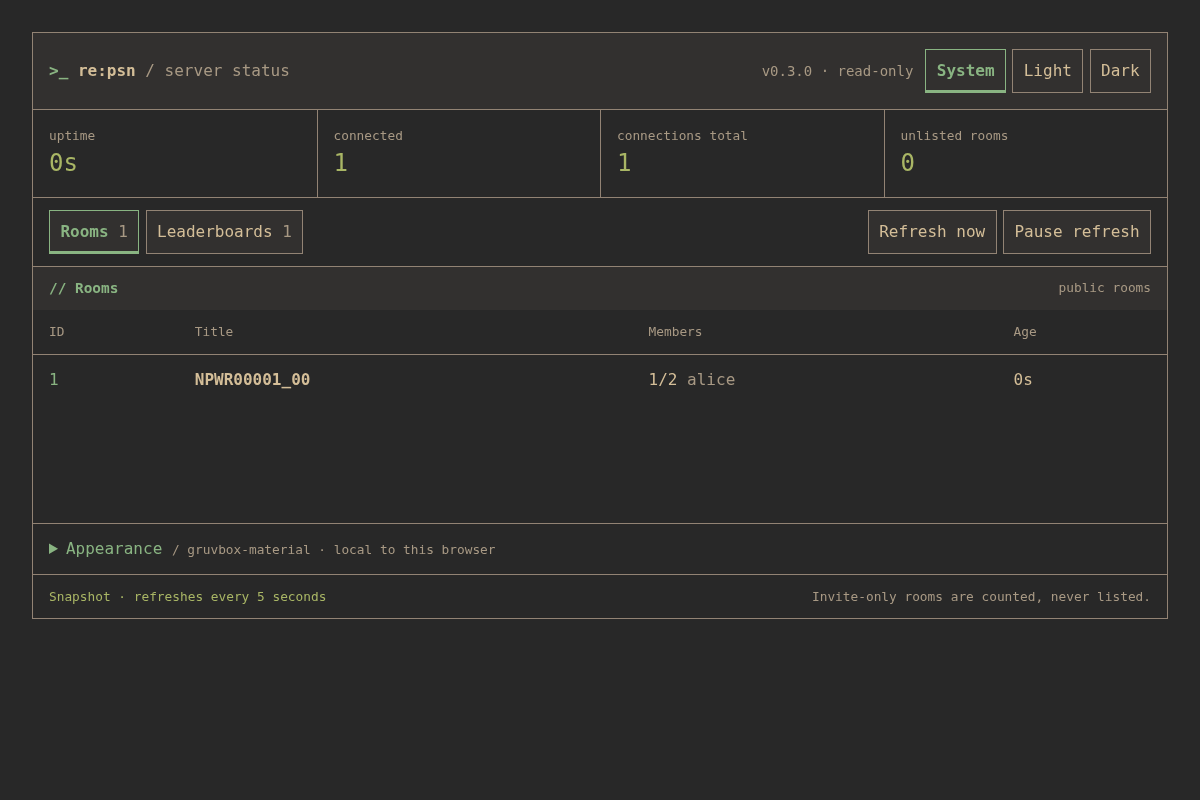
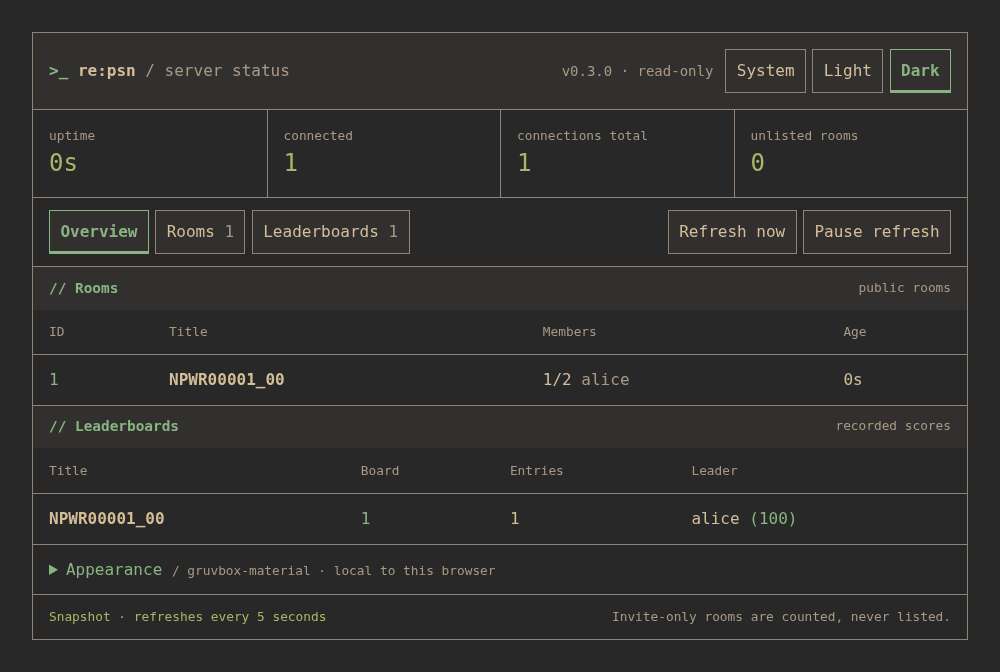
Docs: capture both status tables in the README
Add an Overview view and share the real-page screenshot framing between capture tools. Keep the original image width and show both tables without cropping.

diff --git a/server/status.js b/server/status.js
@@ -107,7 +107,8 @@
     apply(); message('Appearance reset to gruvbox-material.'); save();
   });
 
-  const tabs = [byID('rooms-tab'), byID('boards-tab')];
+  const tabs = [byID('overview-tab'), byID('rooms-tab'), byID('boards-tab')];
+  const sections = [byID('rooms-panel'), byID('boards-panel')];
   function selectTab(tab) {
     for (const item of tabs) {
       const selected = item === tab;
@@ -115,8 +116,12 @@
       item.tabIndex = selected ? 0 : -1;
       const panel = byID(item.getAttribute('aria-controls'));
       panel.hidden = !selected;
-      panel.setAttribute('role', 'tabpanel');
-      panel.setAttribute('aria-labelledby', item.id);
+    }
+    const overview = tab.id === 'overview-tab';
+    for (const section of sections) {
+      const selected = overview || section.id === (tab.id === 'rooms-tab' ? 'rooms-panel' : 'boards-panel');
+      section.hidden = !selected;
+      byID(selected ? tab.getAttribute('aria-controls') : 'overview-view').append(section);
     }
   }
   tabs.forEach((tab, index) => {
@@ -124,7 +129,8 @@
     tab.addEventListener('keydown', event => {
       if (!['ArrowLeft', 'ArrowRight', 'Home', 'End'].includes(event.key) || event.altKey || event.ctrlKey || event.metaKey) return;
       event.preventDefault();
-      const next = event.key === 'Home' ? tabs[0] : event.key === 'End' ? tabs[1] : tabs[1 - index];
+      const next = event.key === 'Home' ? tabs[0] : event.key === 'End' ? tabs[tabs.length - 1]
+        : tabs[(index + (event.key === 'ArrowLeft' ? tabs.length - 1 : 1)) % tabs.length];
       selectTab(next); next.focus();
     });
   });
@@ -180,7 +186,7 @@
     if (!state.hasAttribute('data-error')) state.textContent = paused ? 'Automatic refresh paused · snapshot retained' : 'Automatic refresh · every 5 seconds';
     if (!paused) refresh();
   });
-  apply(); selectTab(tabs[0]);
+  apply(); selectTab(byID('rooms-tab'));
   for (const id of ['theme-controls', 'toolbar', 'appearance']) byID(id).hidden = false;
   byID('fallback-refresh').remove();
   setInterval(() => { if (!paused && !document.hidden) refresh(); }, 5000);

diff --git a/server/status.html b/server/status.html
@@ -28,8 +28,9 @@
   </div>
   <div id="toolbar" class="toolbar" hidden>
     <div role="tablist" aria-label="Status view">
-      <button id="rooms-tab" role="tab" aria-selected="true" aria-controls="rooms-panel" tabindex="0">Rooms <span id="rooms-count">{{len .Rooms}}</span></button>
-      <button id="boards-tab" role="tab" aria-selected="false" aria-controls="boards-panel" tabindex="-1">Leaderboards <span id="boards-count">{{len .Boards}}</span></button>
+      <button id="overview-tab" role="tab" aria-selected="false" aria-controls="overview-view" tabindex="-1">Overview</button>
+      <button id="rooms-tab" role="tab" aria-selected="true" aria-controls="rooms-view" tabindex="0">Rooms <span id="rooms-count">{{len .Rooms}}</span></button>
+      <button id="boards-tab" role="tab" aria-selected="false" aria-controls="boards-view" tabindex="-1">Leaderboards <span id="boards-count">{{len .Boards}}</span></button>
     </div>
     <div class="refresh-controls">
       <button id="refresh" type="button">Refresh now</button>
@@ -37,6 +38,7 @@
     </div>
   </div>
   <main id="main">
+    <div id="overview-view" role="tabpanel" aria-labelledby="overview-tab" tabindex="0">
     <section id="rooms-panel" aria-labelledby="rooms-heading" tabindex="0">
       <div class="file-head"><h2 id="rooms-heading"><span aria-hidden="true">// </span>Rooms</h2><span>public rooms</span></div>
       <div class="table-scroll" role="region" aria-label="Rooms table" tabindex="0">
@@ -55,6 +57,9 @@
         </table>
       </div>
     </section>
+    </div>
+    <div id="rooms-view" role="tabpanel" aria-labelledby="rooms-tab" tabindex="0" hidden></div>
+    <div id="boards-view" role="tabpanel" aria-labelledby="boards-tab" tabindex="0" hidden></div>
   </main>
   <details id="appearance" hidden>
     <summary>Appearance <span class="muted">/ gruvbox-material · local to this browser</span></summary>

diff --git a/tools/art/capture-status.js b/tools/art/capture-status.js
@@ -3,6 +3,7 @@
 // PUPPETEER_DIR is the directory of an installed puppeteer package (the one mermaid-cli ships works).
 const [dir, url, out] = process.argv.slice(2);
 const puppeteer = require(dir);
+const {prepareStatusScreenshot} = require('./status-frame.js');
 (async () => {
   const browser = await puppeteer.launch({
     executablePath: process.env.PUPPETEER_EXECUTABLE_PATH || undefined,
@@ -10,10 +11,14 @@ const puppeteer = require(dir);
   });
   try {
     const page = await browser.newPage();
-    await page.setViewport({ width: 1200, height: 800, deviceScaleFactor: 1 });
+    await page.setViewport({ width: 1000, height: 420, deviceScaleFactor: 1 });
     await page.emulateMediaFeatures([{ name: 'prefers-color-scheme', value: 'dark' }]);
     await page.goto(url, { waitUntil: 'load' });
     await page.waitForFunction(() => !document.querySelector('#toolbar').hidden);
+    await prepareStatusScreenshot({
+      evaluate: expression => page.evaluate(expression),
+      viewport: (width, height) => page.setViewport({width, height, deviceScaleFactor:1}),
+    });
     await page.screenshot({ path: out });
   } finally {
     await browser.close();

diff --git a/tools/art/status-frame.js b/tools/art/status-frame.js
@@ -1,0 +1,17 @@
+// Shared framing for the README screenshot. Operates on the real page controls.
+// The adapter exposes evaluate(expression) and viewport(width, height).
+async function prepareStatusScreenshot(page) {
+  await page.viewport(1000, 420); // Preserve the old screenshot's width; grow to show the complete UI.
+  await page.evaluate(`document.querySelector('button[data-theme="dark"]').click();
+    document.querySelector('#overview-tab').click();document.activeElement.blur()`);
+  await page.evaluate('document.fonts.ready.then(() => true)');
+  const height = await page.evaluate('Math.ceil(document.documentElement.scrollHeight)');
+  await page.viewport(1000, height);
+  const fits = await page.evaluate(`['rooms-panel','boards-panel'].every(id => {
+    const element=document.getElementById(id), rect=element.getBoundingClientRect();
+    return !element.hidden && rect.top>=0 && rect.bottom<=innerHeight;
+  }) && document.documentElement.scrollWidth<=innerWidth`);
+  if (!fits) throw new Error('Both status tables must fit the README screenshot');
+  return {width:1000, height};
+}
+module.exports = {prepareStatusScreenshot};

diff --git a/site/index.html b/site/index.html
@@ -282,7 +282,7 @@
 <h3>Unreleased</h3>
 <h4>Added</h4>
 <ul>
-<li>The opt-in server status page now matches the website and terminal app&#x27;s gruvbox-material palette and monospace framing, with Rooms/Leaderboards tabs, System/Light/Dark, text size, spacing and contrast-checked custom ...</li>
+<li>The opt-in server status page now matches the website and terminal app&#x27;s gruvbox-material palette and monospace framing, with Overview/Rooms/Leaderboards tabs, System/Light/Dark, text size, spacing and contrast-checked ...</li>
 <li>Numbered file-style output in the website&#x27;s terminal view: a header, frame, line-number gutter, syntax-style colours and wrapped continuation rows with an empty gutter.</li>
 <li>Optional install scripts: <code>scripts/install.sh</code> (POSIX sh; Linux amd64 and arm64) and <code>scripts/install.ps1</code> (Windows amd64; written for PowerShell 5.1 and 7, tested on 7 only) install the server for the current user from ...</li>
 </ul>

diff --git a/server/status.css b/server/status.css
@@ -105,7 +105,7 @@ h1 .muted { font-weight: normal; }
 .label { color: var(--muted); display: block; font-size: .8rem; }
 .summary strong { display: block; font-size: 1.5rem; color: var(--good); font-weight: normal; }
 .toolbar { display: flex; flex-wrap: wrap; justify-content: space-between; gap: .75rem; padding: .75rem 1rem; border-bottom: 1px solid var(--frame); }
-[role="tablist"] { display: flex; gap: .4rem; }
+[role="tablist"] { display: flex; flex-wrap: wrap; gap: .4rem; }
 [role="tab"] span { color: var(--muted); font-weight: normal; }
 main { min-height: 16rem; }
 section + section { border-top: 1px solid var(--frame); }

diff --git a/README.md b/README.md
@@ -143,14 +143,15 @@ $ curl -s http://127.0.0.1:36101/api/stats
 
 </details>
 
-With `-http 127.0.0.1:36101`, http://127.0.0.1:36101/ shows a terminal-style status page with Rooms and Leaderboards tabs.
-Below, alice is hosting a room; her score is in the Leaderboards tab. The screenshot comes from a real loopback server
+With `-http 127.0.0.1:36101`, http://127.0.0.1:36101/ shows a terminal-style status page. Overview shows both tables;
+Rooms and Leaderboards open either table separately. Below, alice is hosting a room and leads the leaderboard with 100.
+The screenshot uses the old image's 1000 px width, with enough height to show both tables, and comes from a real loopback server
 and protocol clients ([tools/art/capture-status.sh](tools/art/capture-status.sh) can capture another).
 System/Light/Dark, text size, spacing and custom colours are [browser-local appearance settings](docs/running.md#status-page-appearance).
 Routers and the relay are tested in Docker by the
 [NAT lab](lab/README.md).
 
-![Terminal-style status page in dark mode: alice's room and a tab for one leaderboard](docs/status.png)
+![Terminal-style server status in dark mode: alice's room and her leaderboard score of 100, shown together in Overview](docs/status.png)
 
 ## Features
 

diff --git a/CHANGELOG.md b/CHANGELOG.md
@@ -8,7 +8,7 @@ All notable changes to this project are documented here. The format follows
 
 ### Added
 - The opt-in server status page now matches the website and terminal app's gruvbox-material palette and monospace
-  framing, with Rooms/Leaderboards tabs, System/Light/Dark, text size, spacing and contrast-checked custom colours.
+  framing, with Overview/Rooms/Leaderboards tabs, System/Light/Dark, text size, spacing and contrast-checked custom colours.
   Appearance is local to each browser. Live refresh can be paused and retains the last snapshot on failure; without
   JavaScript both tables remain visible and reload as before. The status token and `/api/stats` fields are unchanged.
 - Numbered file-style output in the website's terminal view: a header, frame, line-number gutter, syntax-style colours

diff --git a/docs/running.md b/docs/running.md
@@ -60,7 +60,8 @@ docker compose -f docker/docker-compose.yml up -d
 
 With `-http 127.0.0.1:36101`, open `http://127.0.0.1:36101/`. The read-only status page uses the same
 gruvbox-material palette and monospace framing as the project website and terminal app. Rooms and Leaderboards
-are tabs; use the arrow keys while a tab is focused, or click one. Invite-only rooms remain counted without names.
+are tabs; Overview shows both tables together. Use the arrow keys while a tab is focused, or click one.
+Invite-only rooms remain counted without names.
 `/api/stats` keeps its existing JSON fields and token rules.
 
 The header offers System, Light and Dark; System follows the browser and responds to changes while the page is open.
